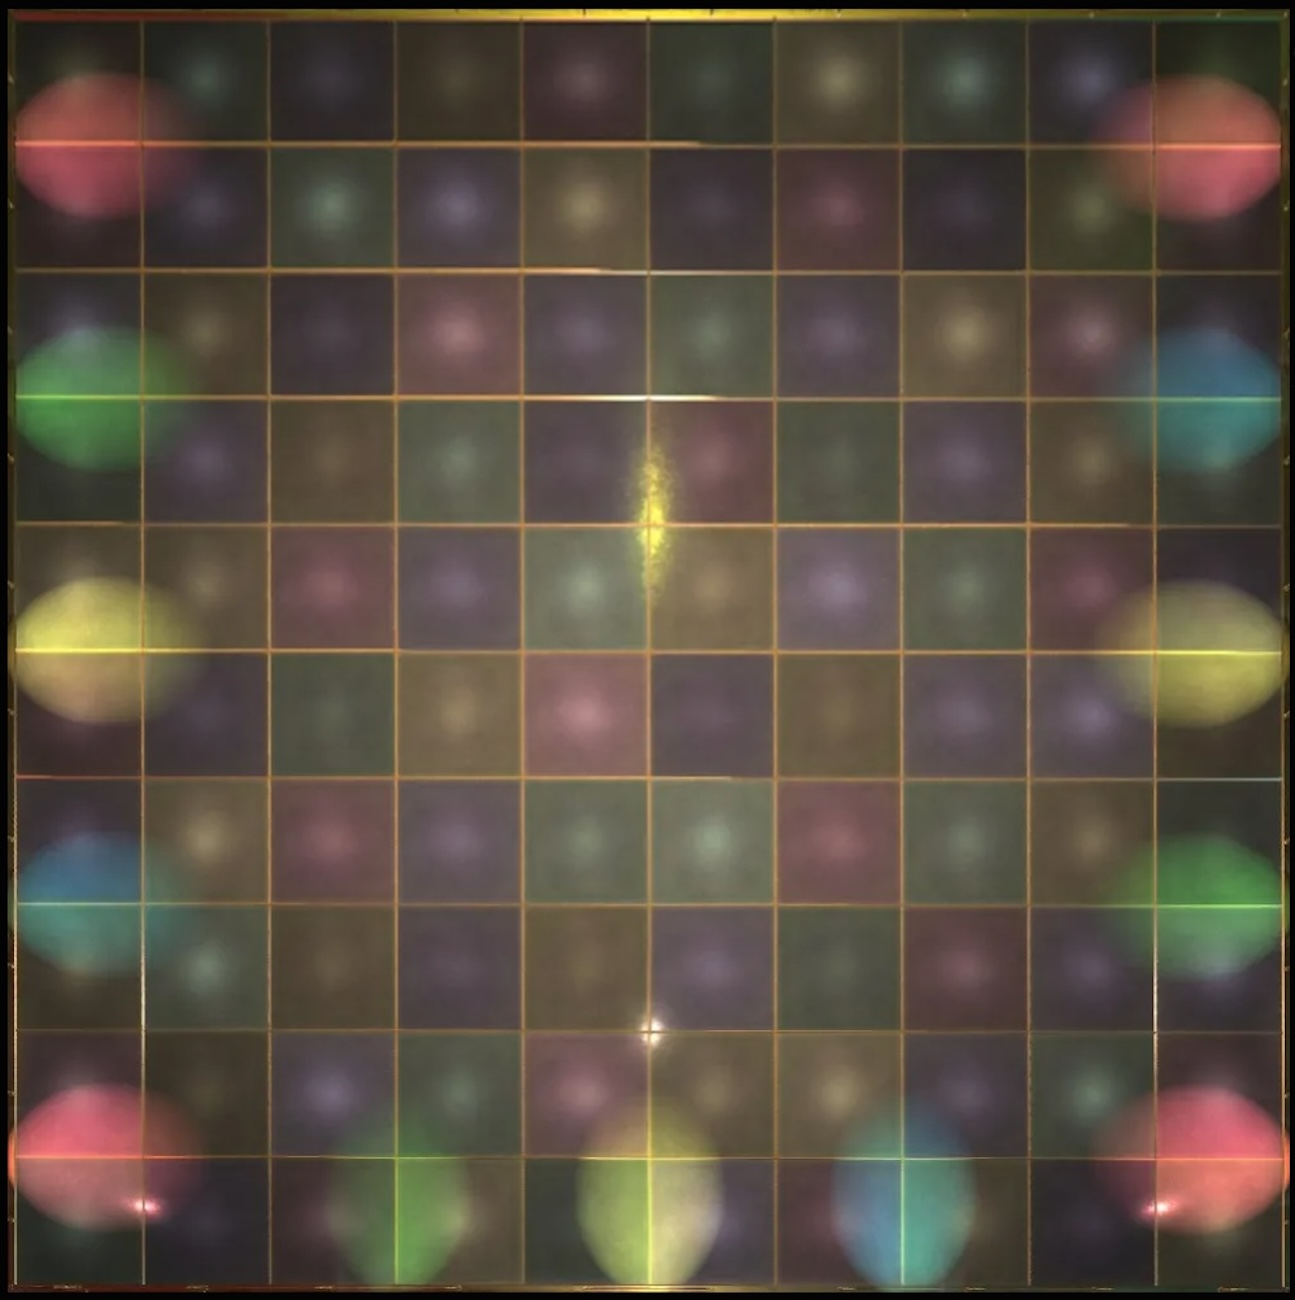
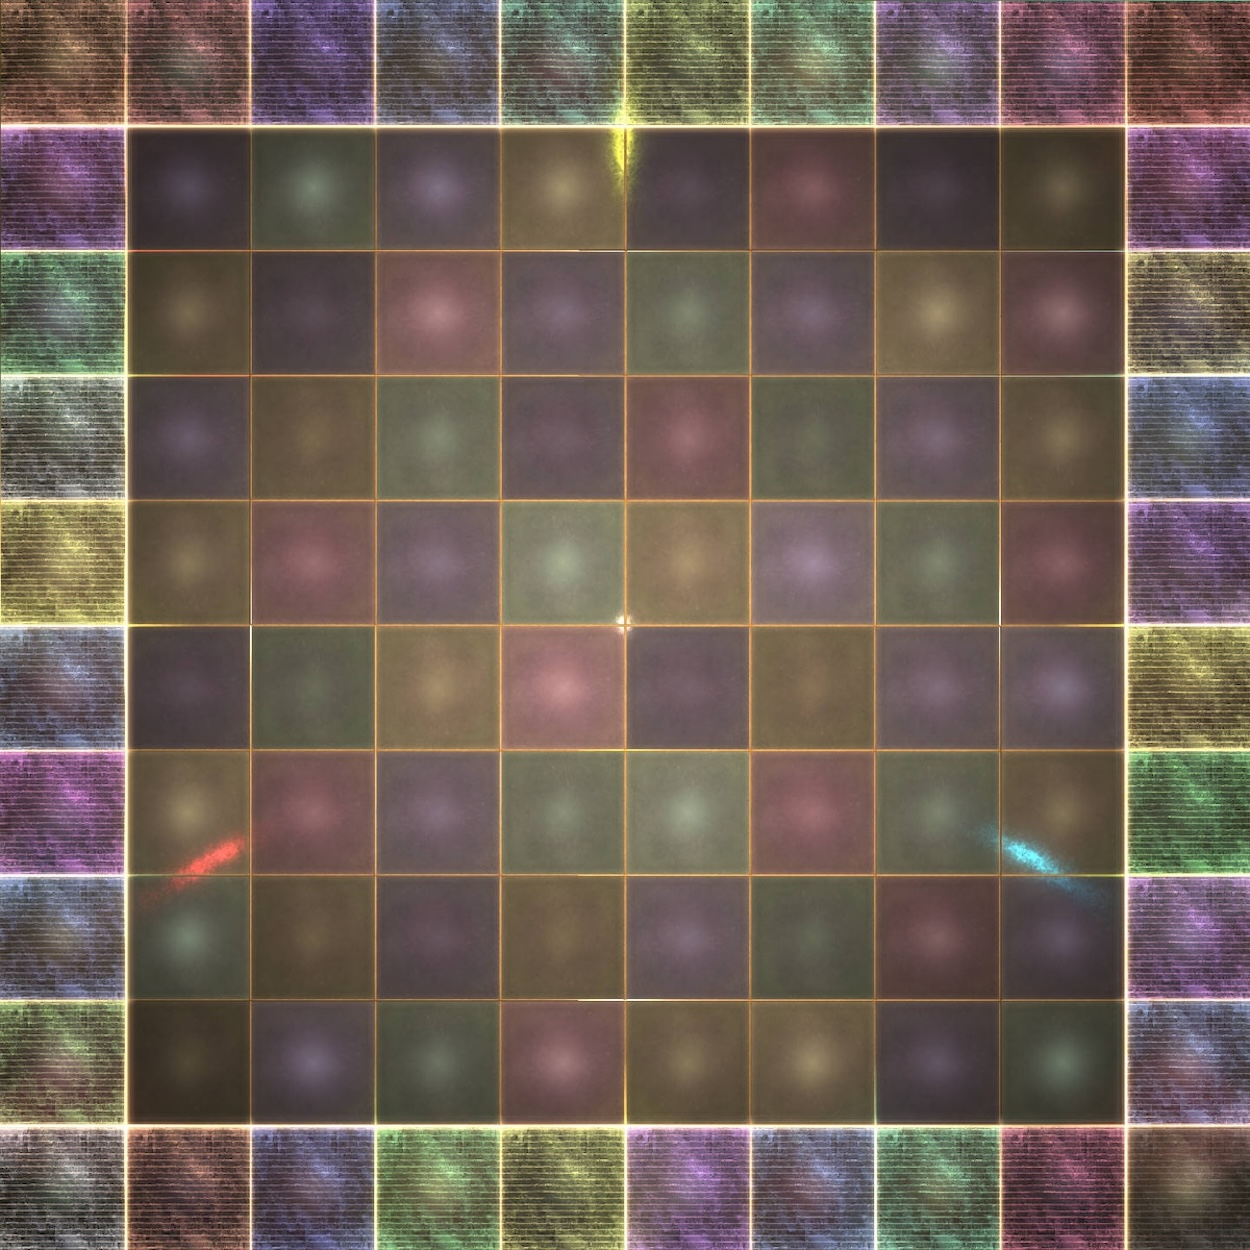
feat: m5s-m8s support

diff --git a/internal/scene/scenes/ffgame.go b/internal/scene/scenes/ffgame.go
@@ -105,9 +105,10 @@ func (ms *FFScene) loadFFLogsReport() {
 	ms.global.FightDuration.Store(int64(fight.EndTime - fight.StartTime))
 
 	ms.global.Phases = extractPhaseTicks(fight)
+	log.Println("Phases:", ms.global.Phases)
 
 	// setup map
-	ms.setupMap(fight)
+	ms.setupMap(fight, len(ms.global.Phases) > 0)
 
 	// initialize player events
 	players := ms.client.QueryFightPlayers(ms.code, fight.ID)
@@ -361,6 +362,9 @@ func (ms *FFScene) filterMapChangeEvents(
 		}
 	}
 
+	log.Println("Map change events:")
+	util.PrintJson(ret)
+
 	return ret
 }
 
@@ -376,15 +380,24 @@ func (ms *FFScene) filterMarkerChangeEvents(events []fflogs.FFLogsEvent) []fflog
 	return ret
 }
 
-func (ms *FFScene) setupMap(fight fflogs.ReportFight) {
+func (ms *FFScene) setupMap(fight fflogs.ReportFight, hasPhase bool) {
 	// create a background base on mapID
-	if m, ok := model.MapCache[fight.Maps[0].ID]; ok {
+	if m, ok := model.MapCache[fight.Maps[0].ID]; hasPhase && ok {
 		config := m.Load()
 		current := config.Maps[config.CurrentMap]
 		ms.camera.Position = vector.NewVector(current.Offset.X*25, current.Offset.Y*25)
 		component.Map.Get(component.Map.MustFirst(ms.ecs.World)).Config = config
 	} else {
 		queryMapItem := func(id int) model.MapItem {
+			// first check local map assets
+			if m, ok := model.MapCache[id]; ok {
+				config := m.Load()
+				current := config.Maps[config.CurrentMap]
+				ms.camera.Position = vector.NewVector(current.Offset.X*25, current.Offset.Y*25)
+
+				return current
+			}
+
 			// get default map from fflogs
 			gameMap := ms.client.QueryMapInfo(id)
 			// fflogs map offset is based on top-left corner

diff --git a/internal/renderer/ui.go b/internal/renderer/ui.go
@@ -21,21 +21,28 @@ func (r *Renderer) UIRender(ecs *ecs.ECS, screen *ebiten.Image) {
 	// render debug info
 	camera := component.Camera.Get(tag.Camera.MustFirst(ecs.World))
 	global := component.Global.Get(tag.Global.MustFirst(ecs.World))
+	mapData := component.Map.Get(tag.Background.MustFirst(ecs.World))
 	tick := global.Tick / 10
 	s := ebiten.Monitor().DeviceScaleFactor()
 	x, y := ebiten.CursorPosition()
 	wx, wy := camera.ScreenToWorld(float64(x), float64(y))
 	w, h := camera.WindowSize()
 
+	mapID := -1
+	if mapData != nil && mapData.Config != nil {
+		mapID = mapData.Config.CurrentMap
+	}
+
 	ebitenutil.DebugPrintAt(screen, fmt.Sprintf("Cursor: %f, %f, Debug: %t", wx, wy, global.Debug), 0, 0)
 	ebitenutil.DebugPrintAt(
 		screen,
 		fmt.Sprintf(
-			"Tick: %d, Time: %d, TPS: %.2f, FPS: %.2f",
+			"Tick: %d, Time: %d, TPS: %.2f, FPS: %.2f, Map: %d",
 			entry.GetTick(ecs),
 			util.TickToMS(entry.GetTick(ecs)),
 			ebiten.ActualTPS(),
 			ebiten.ActualFPS(),
+			mapID,
 		), 0, 15)
 
 	if !global.Loaded.Load() {
